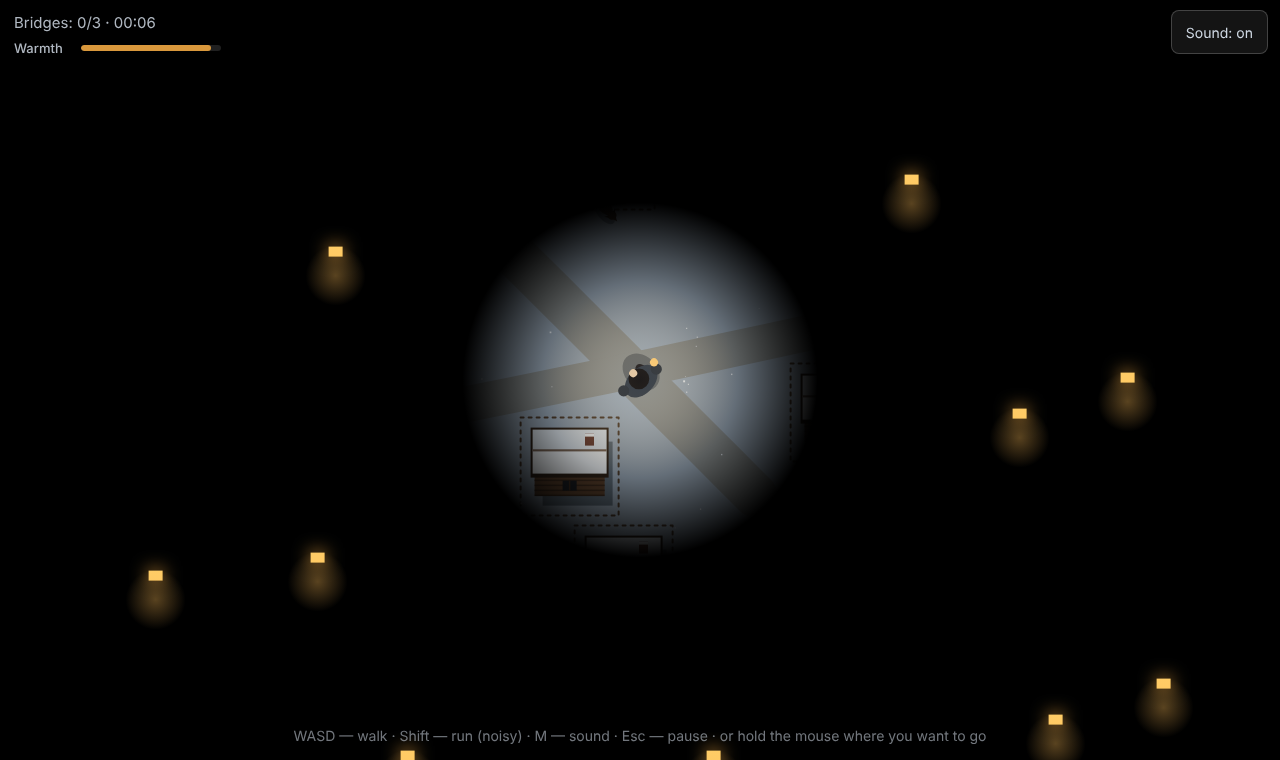
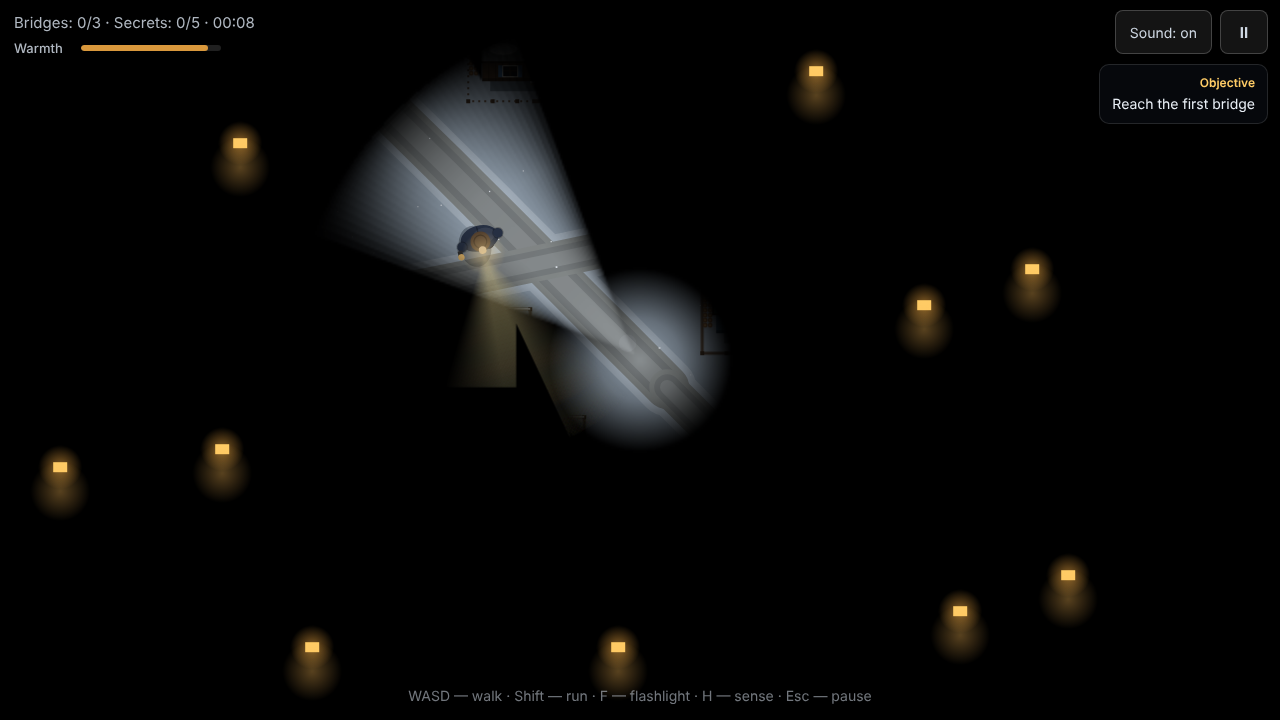
Update README and screenshots
- Rewrite README for the current game: story, cutscenes with their sounds,
  flashlight beam, phone controls, tips, uncle on the motorbike, tea,
  secrets and bonus ending, difficulty table with thermoses, file list
- New menu and gameplay screenshots, add a cutscene screenshot

Claude-Session: https://claude.ai/code/session_01StVrcuYnse9TRjPiz2P7UJ

diff --git a/README.md b/README.md
@@ -1,22 +1,38 @@
 # Return Home · Дорога домой
 
-A small atmospheric browser game. It is a winter night in a Siberian village, and you have to walk home in total darkness across three bridges without being caught.
+A small atmospheric browser game based on a real childhood memory. It is a winter night in a Siberian village, and a five-year-old boy has to walk to his grandmother's house in total darkness, across three bridges, without being caught.
 
-**Play:** https://3dendroid.github.io/return-home/
+**Play:** https://3dendroid.github.io/return-home/ (desktop and phone)
 
 ![Main menu](docs/menu.png)
 
 ## Story
 
-A winter evening, around ten o'clock. You walk from Verkhneusinskoye to Nizhneusinskoye, two real villages on the Us river in Krasnoyarsk Krai. It is dark and freezing, and it is best if nobody sees you on the way. Home is the house with a green roof and two lit windows, in the far north-east corner of Nizhneusinskoye.
+Ten to ten on a winter night. The boy is at his aunt's house in Verkhneusinskoye and misses his grandmother, who lives in Nizhneusinskoye, almost three kilometres away. The door is locked, so he breaks the window, climbs out and runs off barefoot. Both villages are real, on the Us river in Krasnoyarsk Krai.
 
-The map follows the real route on Google Maps: out of Verkhneusinskoye to the north-west, over a side channel, across the floodplain, over the Us, north through the forest, over the last channel and through the streets of Nizhneusinskoye to the far side of the village.
+The map follows the real route on Google Maps: out of Verkhneusinskoye to the north-west, over a side channel, across the floodplain, over the Us, north through the forest, over the last channel and through the streets of Nizhneusinskoye to grandma's house with the green roof in the far north-east corner of the village.
+
+![Cutscene](docs/cutscene.png)
+
+## Cutscenes
+
+The story is told in short scenes with captions. The pictures are illustrations generated locally in ComfyUI with Qwen-Image 2.1 from our prompts and brought to life in code: slow camera moves, falling snow, flickering fire and lamps, glowing windows, steam from a mug. Each scene has its own sounds.
+
+**Intro**
+1. The aunt's house at ten to ten: the boy at the frosted window. A crackling stove and a ticking clock.
+2. The locked door: he pulls the handle, wood and iron latch rattle.
+3. The escape: breaking glass, then running barefoot through the snow.
+4. The village street at night: wind, his steps, a dog barking somewhere.
+5. Darkness closes in around him, and the game begins.
+
+**Ending**
+1. Grandma's window: she is up, with a steaming mug.
+2. The door creaks open, the boy climbs the wooden steps, and she meets him with open arms.
+3. Bonus scene, only if you found all five secrets: by the stove, the boy lays out his finds and Grandma strokes his hair.
+
+Click or press Space to go to the next scene, Esc to skip.
 
 ![Gameplay](docs/gameplay.png)
-
-## Story scenes
-
-The cutscenes are painted illustrations generated locally in ComfyUI with Qwen-Image 2.1 from our prompts, brought to life in code: slow camera moves, falling snow, flickering fire and lamps, window glow and steam. Each scene has its own sounds: crackling stove and a ticking clock at the aunt's, the latch rattling, breaking glass and running steps, wind, a distant dog, the door creak and steps on the wooden porch. The game opens with four short scenes: ten to ten at his aunt's house, the boy at the window missing his grandmother; the locked door; from outside, he breaks the glass, climbs out and runs off barefoot; then he walks down the village street at night, and darkness closes in around him. It ends at grandma's green-roofed house: her silhouette with a mug in the lit window, then the door creaks open and she stands on the porch with open arms. Click or press Space to advance, Esc to skip.
 
 ## How to play
 
@@ -24,49 +40,50 @@ The cutscenes are painted illustrations generated locally in ComfyUI with Qwen-I
 |---|---|
 | WASD / arrows | Walk |
 | Shift | Run (faster, but enemies hear you from further away) |
-| F | Flashlight on/off. It shines as a beam where the boy faces; houses cast shadows. Off: harder to spot, but you see little and freeze faster |
+| F | Flashlight on/off. It shines as a beam where the boy faces, and houses cast shadows. Off: harder to spot, but you see little and freeze faster |
 | H | Sense: an arrow points to the nearest hidden secret; once all five are found, it leads you back to the road and along it home (costs warmth, 8 s cooldown) |
 | Hold mouse | Walk towards the pointer |
-| Phone | On-screen stick, plus Run, Light, Sense and pause buttons |
 | Esc | Pause: continue or restart |
 | M | Sound on / off |
 
-The current objective is shown in the top-right corner. You only see what is inside your lantern's circle of light. Lit windows, other people's lanterns and wolves' eyes are visible from far away.
+**On a phone:** on-screen stick, Run, Light and Sense buttons, and a pause button next to the sound button. Light and Sense work while you hold Run.
+
+The current objective is shown in the top-right corner. You see only a small circle around the boy and what your flashlight beam reaches. Lit windows, other people's lanterns and wolves' eyes are visible from far away.
+
+New players get a short one-time tip the first time they meet something: a dog or wolf, a grown-up, a hunter, the cold, the first secret, the motorbike, or getting lost. Each tip shows once per browser.
 
 ## What tries to stop you
 
-- **Cold.** Warmth drains all the time. Lit windows warm you up; every bridge restores it fully. The wind on the Us bridge drains it four times faster and pushes you sideways.
-- **Dogs** sit in village yards. They hear footsteps nearby and running from far away, then chase and bark. A dog caught in your flashlight beam yelps and backs off.
-- **Wolves** roam the forest and the floodplain. You only see their eyes. They are faster than walking but slower than running. Like dogs, they back away from your flashlight beam.
-- **Grown-ups with lanterns** patrol village streets. If you step into the beam, the grown-up stops, calls out "Hey!" (an orange "!" appears) and follows you with the light; get out of the beam in about a second, or you are caught. Bumping right into one still ends the run.
-- **Hunters** stand in the forest and the floodplain with a flashlight on the rifle, sweeping the beam towards the road. If you step into the beam they aim (a red beam and a "!"); get out before the shot. Lantern and rifle beams do not pass through houses, so a house is safe cover from adults and hunters.
-- **Your uncle on a sidecar motorbike** rides up and down the forest road before the last bridge, with a long bright headlight. You hear the engine getting closer, panned left or right. Step off the road and stay out of the headlight: if it catches you, he brakes, shouts and you have about a second to get out of the beam.
-- **Rivers.** Walk into the water from the bank and you drown. Bridges have railings, so you cannot fall off them; planks creak under your feet.
+- **Cold.** Warmth drains all the time. Lit windows warm you up, and every bridge restores it fully. The wind on the Us bridge drains it four times faster and pushes you sideways.
+- **Dogs** sit in village yards. They hear footsteps nearby and running from far away, then chase and bark. Shine your flashlight at a dog and it yelps and backs off.
+- **Wolves** roam the forest and the floodplain. You only see their eyes. They are faster than walking but slower than running, and they back away from the flashlight beam too.
+- **Grown-ups with lanterns** patrol village streets. Step into the beam and the grown-up stops, calls out "Hey!" (an orange "!") and follows you with the light: get out of the beam in about a second, or you are caught.
+- **Hunters** stand in the forest and the floodplain with a flashlight on the rifle. Step into the beam and they take aim (a red beam and a "!"): get out before the shot.
+- **Your uncle on a sidecar motorbike** rides up and down the forest road before the last bridge. You hear the engine getting closer, from the left or right. Step off the road and stay out of the headlight.
+- **Rivers.** Walk into the water from the bank and you fall through the ice. Bridges have railings, so you cannot fall off them.
 
-Enemies are placed randomly on every run.
+Lantern, rifle and headlight beams do not pass through houses, so a house is safe cover. Enemies are placed randomly on every run. Bridges are checkpoints: if you are caught, you start again from the last bridge you crossed, and the message tells you how to avoid that next time.
 
-## Hot tea
+## Hot tea and secrets
 
-Thermoses with hot tea lie off the road in random places; each one restores all your warmth. Easy has 5, Normal 3, Hard 1.
+- **Thermoses with hot tea** lie off the road in random places; each one restores all your warmth. Easy has 5, Normal 3, Hard 1.
+- **Five secrets** are hidden off the road, one in each part of the map, in new places on every run: a mitten, a sled, a cedar cone, a coin and a whistle. A faint sparkle gives one away when you are close. Find all five to unlock the bonus ending scene.
 
-## Secrets
+## Atmosphere
 
-Five things are hidden off the road, one in each part of the map, in new places on every run: a mitten, a sled, a cedar cone, a coin and a whistle. A faint sparkle gives one away when you are close. The count is shown in the HUD and on the win screen. Find all five and the ending gets one more scene: by the stove, the boy lays out what he found and Grandma strokes his hair.
-
-Barking, howling and gunshots come from the left or right, so you can hear where danger is. The river is audible only near the water, and footsteps sound different on loose snow, the packed road and creaking bridge planks. You leave footprints that slowly fade, your breath steams in the cold, and when you are freezing frost creeps in from the screen edges, the lantern dims and the picture shivers. Bridges are checkpoints: if you lose, you go back to the last bridge you crossed.
-
-New players get short one-time tips the first time they meet something: a dog or wolf (use the flashlight), a grown-up, a hunter, the cold, the first secret, the motorbike, or getting lost (use your sense). Each tip shows once per browser.
+Barking, howling, gunshots and the motorbike come from the left or right, so you can hear where danger is. The river is audible only near the water. Footsteps sound different on loose snow, the packed road and creaking bridge planks. You leave footprints that slowly fade, your breath steams in the cold, and when you are freezing, frost creeps in from the screen edges, the flashlight dims and the picture shivers.
 
 ## Difficulty
 
 | | Easy | Normal | Hard |
 |---|---|---|---|
 | Cold | 0.7× | 1× | 1.4× |
-| Light radius | 210 | 180 | 150 |
+| Light | 210 | 180 | 150 |
 | Enemy speed | 0.85× | 1× | 1.1× |
 | Enemy hearing | 0.8× | 1× | 1.25× |
 | Dogs / wolves / lantern patrols | 10 / 8 / 4 | 14 / 11 / 6 | 18 / 15 / 8 |
 | Hunters (beam range, aim time) | 2 (250, 1.3 s) | 3 (300, 1 s) | 5 (350, 0.75 s) |
+| Thermoses | 5 | 3 | 1 |
 
 ## Leaderboard
 
@@ -74,15 +91,18 @@ Your best times are saved in the browser (`localStorage`), per difficulty. The c
 
 ## Tech
 
-- Plain HTML, CSS and JavaScript, no frameworks, no build step. Cutscene images are embedded in `images.js` as base64 WebP. Recorded sounds (footsteps, bridge planks, gunshot, breaking glass, motorbike engine) are embedded in `sounds.js` as base64 MP3.
+- Plain HTML, CSS and JavaScript: no frameworks, no build step.
 - Rendering: Canvas 2D, top-down. Darkness is a mask with a small circle around the boy and a flashlight beam where he faces; houses cast shadows for every lantern. On slow devices the game switches to lighter graphics by itself.
-- Sound: Web Audio API. The recordings above are mixed with synthesized sounds: the river, menu music, barking, howling, the "Hey!" call, the chase theme, win and lose tunes.
+- Sound: Web Audio API. Recorded sounds (snow steps, bridge planks, gunshot, breaking glass, motorbike engine) are mixed with synthesized ones: the river, wind, fire, menu music, barking, howling, the "Hey!" call, the chase theme, win and lose tunes.
+- Cutscene images are WebP, recordings are MP3, both embedded as base64 so the game is a few static files.
 - Languages: Russian and English, switchable in the menu.
 
 ```
 index.html   page markup and menu
-style.css    menu and HUD styles
-game.js      map, enemies, audio, rendering, menu and leaderboard logic
+style.css    menu, HUD and cutscene styles
+game.js      map, enemies, audio, rendering, cutscenes, menu and leaderboard
+sounds.js    recorded sounds (base64 MP3)
+images.js    cutscene illustrations (base64 WebP)
 docs/        screenshots and the map overview
 ```
 
@@ -103,4 +123,4 @@ Opening `index.html` directly from disk also works.
 
 ---
 
-**RU.** Атмосферная браузерная игра: зимняя ночь, полная темнота, путь пешком из Верхнеусинского в Нижнеусинское (Красноярский край) через три моста. Мешают холод, собаки, волки, взрослые с фонарями и река. По пути спрятаны пять секретов. Карта повторяет реальный маршрут. Есть три уровня сложности, доска почёта, русский и английский язык.
+**RU.** Атмосферная браузерная игра по детскому воспоминанию. Зимняя ночь, полная темнота: пятилетний мальчик сбегает от тёти и идёт к бабушке из Верхнеусинского в Нижнеусинское (Красноярский край) через три моста. Мешают холод, собаки, волки, взрослые с фонарями, охотники, дядя на мотоцикле и река. Помогают фонарь, чутьё и термосы с горячим чаем. По пути спрятаны пять секретов, за все пять — дополнительная сцена в финале. Карта повторяет реальный маршрут. Есть заставки с иллюстрациями, подсказки для новичков, три уровня сложности, доска почёта, управление на телефоне, русский и английский язык.
